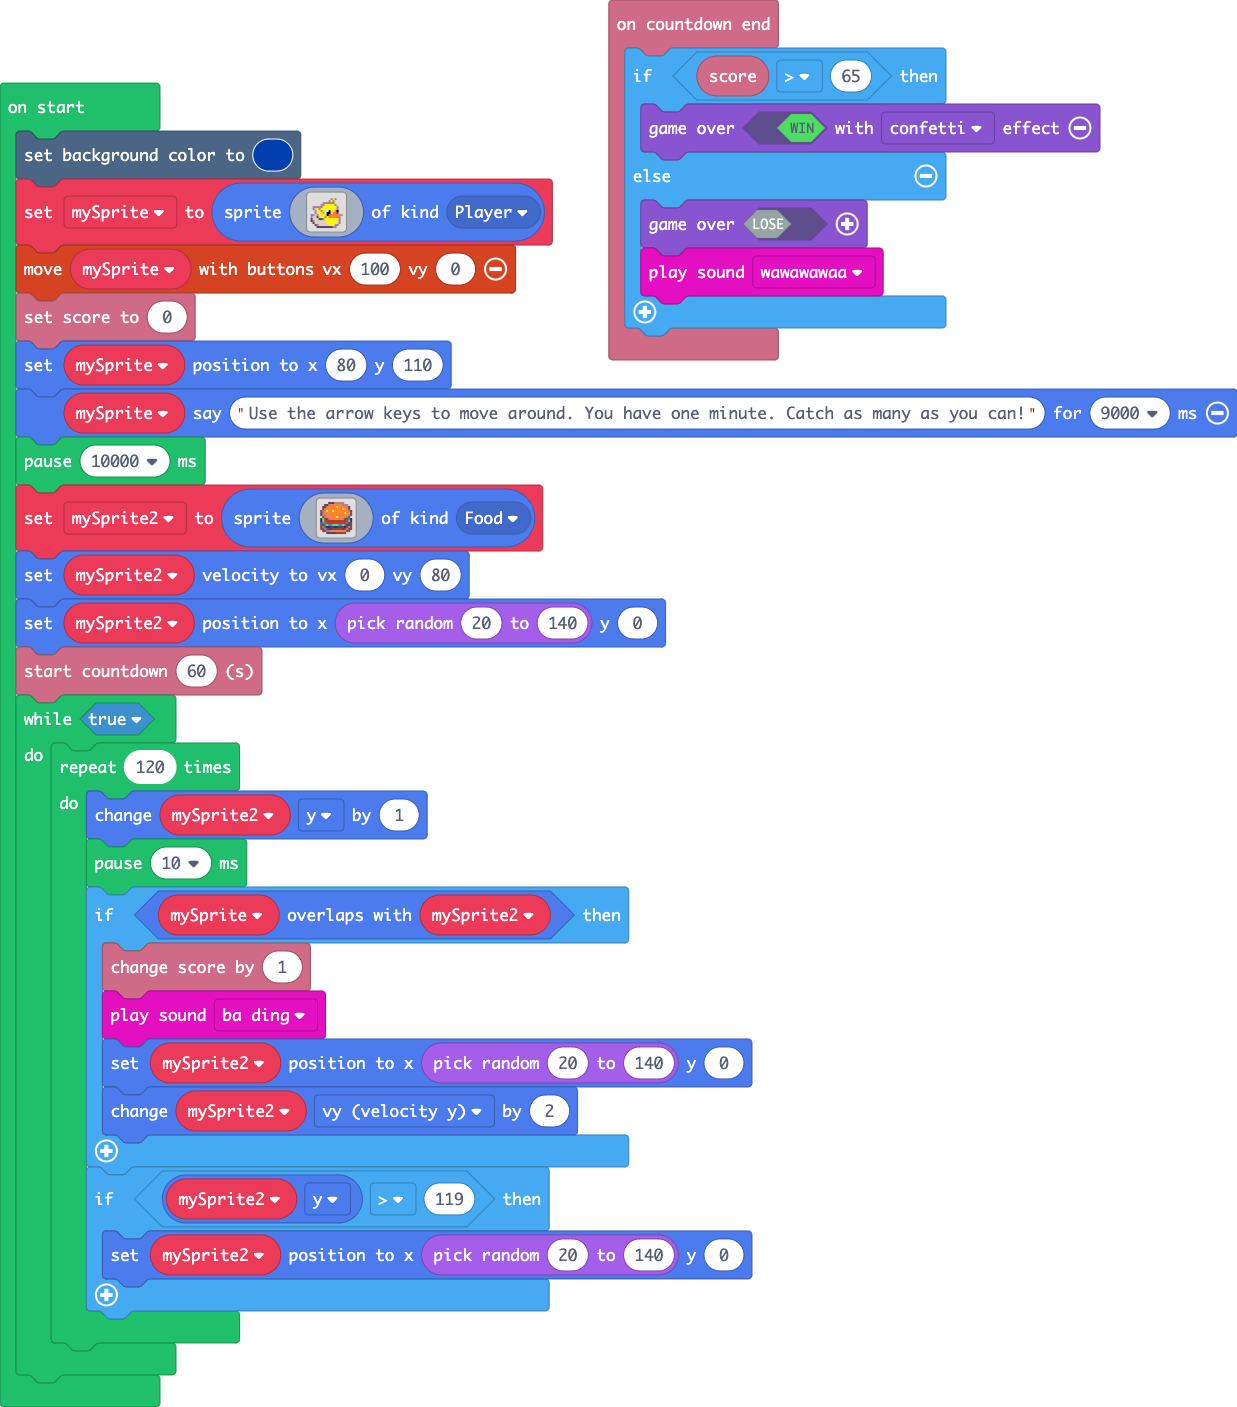
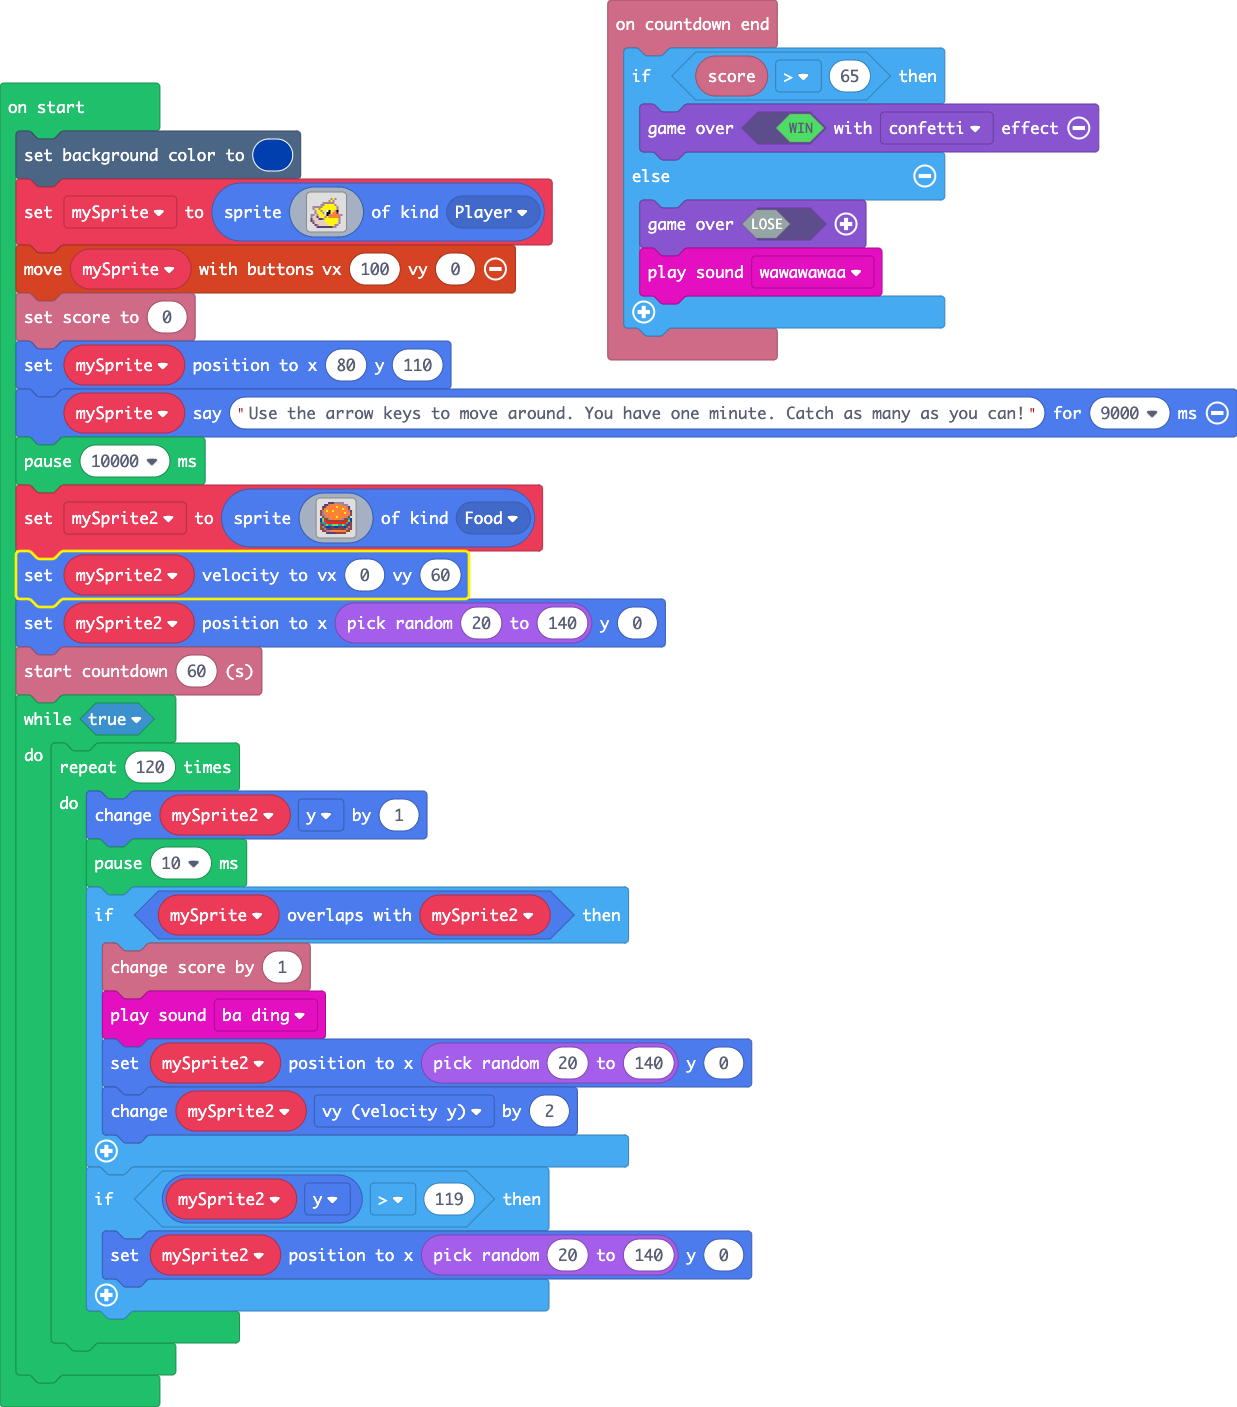
Final code (edited)

diff --git a/main.ts b/main.ts
@@ -48,7 +48,7 @@ e e b e c c e e e e e c e b e e
 . e e b b 4 4 4 4 4 4 4 4 e e . 
 . . . c c c c c e e e e e . . . 
 `, SpriteKind.Food)
-mySprite2.setVelocity(0, 80)
+mySprite2.setVelocity(0, 60)
 mySprite2.setPosition(Math.randomRange(20, 140), 0)
 info.startCountdown(60)
 while (true) {
